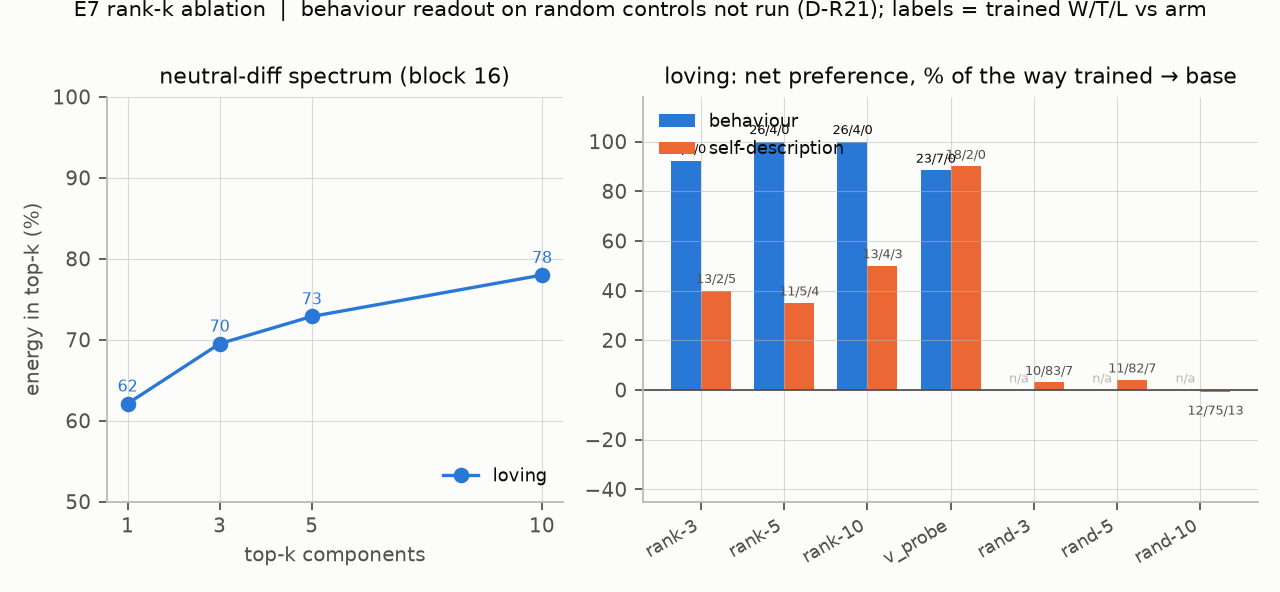
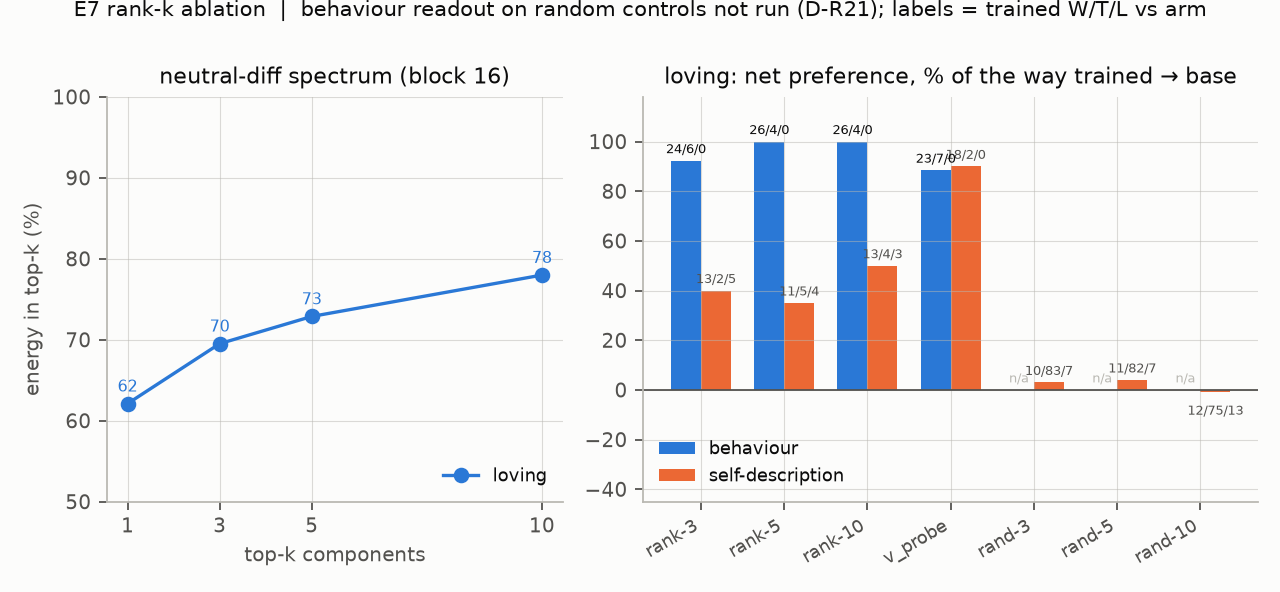
Rank-k loving: REGRESSION rows vs targets with raw W/T/L counts per arm and seed; fig_rankk legend

Changed region(s): [[0.5, 0.7297, 0.6562, 0.8209], [0.5, 0.2432, 0.6562, 0.2736], [0.5, 0.1824, 0.625, 0.2128]]

diff --git a/chardiff/figures.py b/chardiff/figures.py
@@ -764,7 +764,7 @@ def fig_rankk():
         ax.axhline(0, color=INK2, lw=0.8); ax.set_xticks(x)
         ax.set_xticklabels([lab for _, lab in arms], rotation=30, ha="right", fontsize=8)
         ax.set_title(f"{p}: net preference, % of the way trained \u2192 base"); ax.set_ylim(-45, 118)
-    axes[1].legend(loc="upper left", fontsize=8)
+    axes[1].legend(loc="lower left", fontsize=8)      # the negative band is empty on loving; labels sit above bars
     fig.suptitle("E7 rank-k ablation  |  behaviour readout on random controls not run (D-R21); labels = trained W/T/L vs arm",
                  fontsize=9.5, y=1.0)
     _save(fig, "e7_rankk", "rank-k subspace ablation, both personas")
